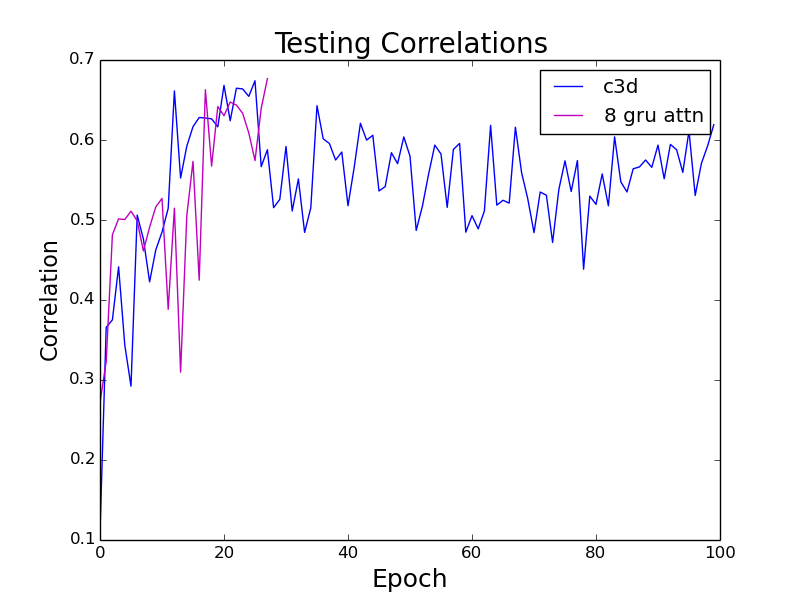
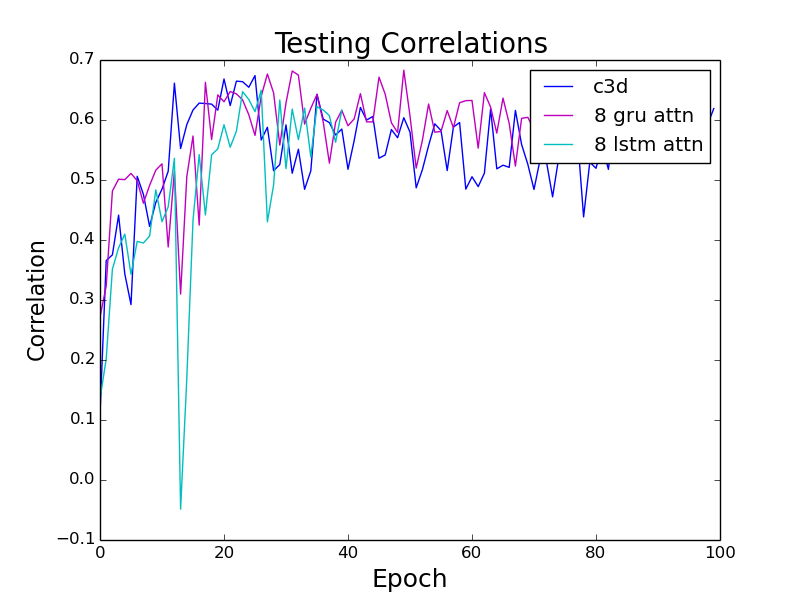
lstm encode video

diff --git a/MTL-AQA_code_release/parse.py b/MTL-AQA_code_release/parse.py
@@ -6,6 +6,7 @@ file_name2 = "c3davg_train_logging_file_1.txt"
 file_name3 = "train_logging_file_1.txt"
 file_name4 = "s3d_attn_train_logging_file_1.txt"
 file_name5 = "c3davg_8_gru_attn_train_logging_file_1.txt"
+file_name6 = "c3davg_8_lstm_attn_train_logging_file_1.txt"
 
 experiment_name = "Training Losses"
 
@@ -26,6 +27,9 @@ lines4 = f4.readlines()
 
 f5 = open(file_name5, 'r')
 lines5 = f5.readlines()
+
+f6 = open(file_name6, 'r')
+lines6 = f6.readlines()
 
 mode_label = None
 if mode == 'train':
@@ -169,6 +173,31 @@ for i in range(len(lines5)/12):
     # losses.append(middle_loss)
     losses_5.append(loss)
 
+losses_6 = []
+
+
+for i in range(len(lines6)/12):
+
+    epoch = lines6[i*12:i*12+12]
+    first_iter = epoch[0:4]
+    second_iter = epoch[4:8]
+    last_iter = epoch[8:]
+
+    first_loss = float(first_iter[0].split(',')[2].split(':')[1])
+    middle_loss = float(second_iter[0].split(',')[2].split(':')[1])
+
+
+    first_line = last_iter[0]
+    first_line = first_line.split(',')
+    first_line = [i.split(':') for i in first_line[2:]]
+    loss = float(first_line[0][1])
+
+
+
+    # losses.append(first_loss)
+    # losses.append(middle_loss)
+    losses_6.append(loss)
+
 def best_fit(X, Y):
 
     xbar = sum(X)/len(X)
@@ -209,11 +238,12 @@ def best_fit(X, Y):
 
 
 
-# plt.plot(range(len(losses[:20])), losses[:20], '-r', label = 'c3d attn')
-plt.plot(range(len(losses_2[:28])), losses_2[:28], '-b', label = 'c3d')
+plt.plot(range(len(losses[:20])), losses[:20], '-r', label = 'c3d attn')
+plt.plot(range(len(losses_2)), losses_2, '-b', label = 'c3d')
 # plt.plot(range(len(losses_3)[:20]), losses_3[:20], '-g', label = 's3d')
 # plt.plot(range(len(losses_4[:20])), losses_4[:20], '-k', label = 's3d attn')
-plt.plot(range(len(losses_5[:28])), losses_5[:28], '-m', label = '8 gru attn')
+plt.plot(range(len(losses_5)), losses_5, '-m', label = '8 gru attn')
+# plt.plot(range(len(losses_6[:50])), losses_6[:50], '-c', label = '8 lstm attn')
 plt.legend()
 
 

diff --git a/MTL-AQA_code_release/parse_test.py b/MTL-AQA_code_release/parse_test.py
@@ -6,6 +6,7 @@ file_name2 = "c3davg_test_logging_file_1.txt"
 file_name3 = "test_logging_file_1.txt"
 file_name4 = "s3d_attn_test_logging_file_1.txt"
 file_name5 = "c3davg_8_gru_attn_test_logging_file_1.txt"
+file_name6 = "c3davg_8_lstm_attn_test_logging_file_1.txt"
 
 experiment_name = "Testing Correlations"
 
@@ -27,6 +28,9 @@ lines4 = f4.readlines()
 
 f5 = open(file_name5, 'r')
 lines5 = f5.readlines()
+
+f6 = open(file_name6, 'r')
+lines6= f6.readlines()
 
 mode_label = None
 if mode == 'train':
@@ -64,11 +68,19 @@ for i in range(len(lines5)/3):
     corr = float(epoch[1:2][0].split(':')[1])
     corr5.append(corr)
 
+corr6 = []
+for i in range(len(lines6)/3):
+    epoch = lines6[i*3:i*3+3]
+    corr = float(epoch[1:2][0].split(':')[1])
+    corr6.append(corr)
+
+
 # plt.plot(range(len(corr1)), corr1, '-r', label = 'c3d attn')
 plt.plot(range(len(corr2)), corr2, '-b', label = 'c3d')
 # plt.plot(range(len(corr3)), corr3, '-g', label = 's3d')
 # plt.plot(range(len(corr4)), corr4, '-k', label = 's3d attn')
 plt.plot(range(len(corr5)), corr5, '-m', label = '8 gru attn')
+plt.plot(range(len(corr6)), corr6, '-c', label = '8 lstm attn')
 plt.legend()
 
 
